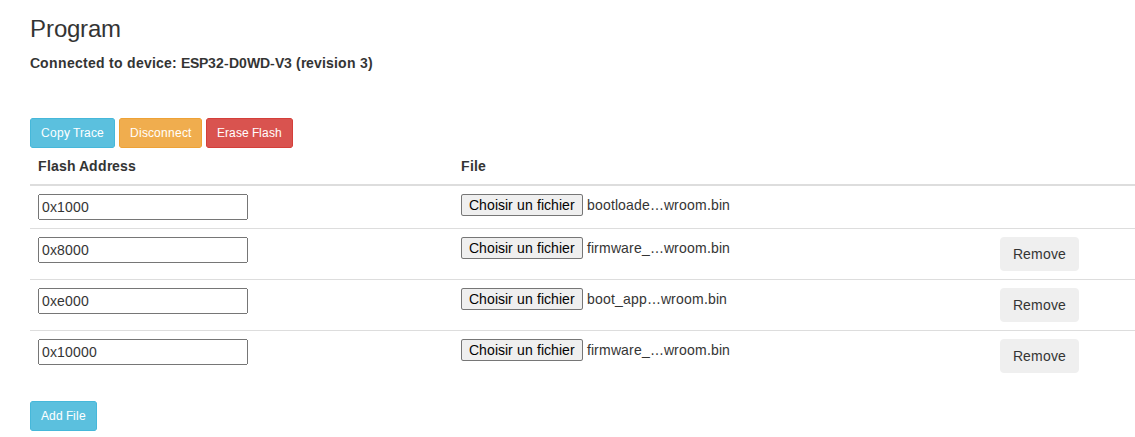
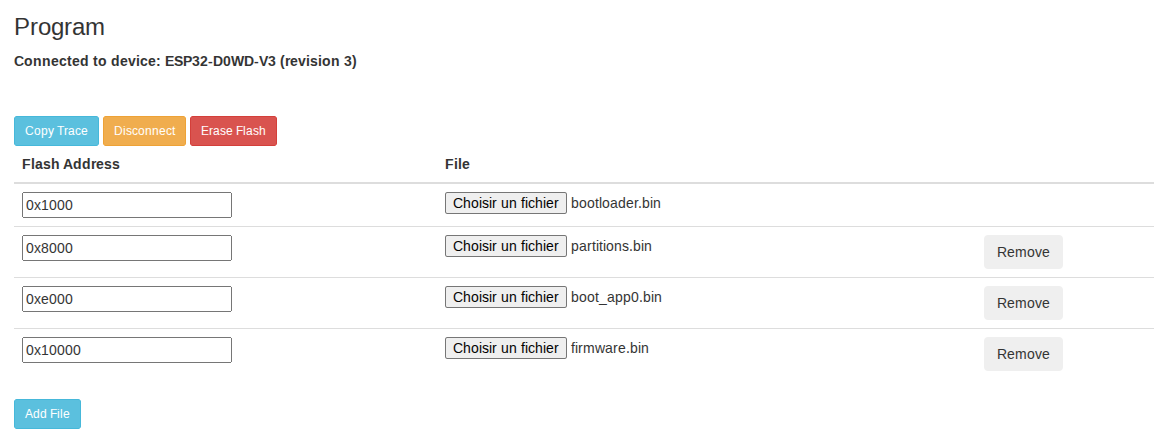
Restart esp32 after 3min if no wifi

diff --git a/src/main.cpp b/src/main.cpp
@@ -161,9 +161,10 @@ void setup() {
 
     // Wifi setup
     WiFiManager wm;
+    wm.setConfigPortalTimeout(180);
     bool res = wm.autoConnect();
     if (!res) {
-        Serial.println("Failed to connect");
+        Serial.println("Restarting...");
         delay(1000);
         ESP.restart();
     }

diff --git a/Readme.md b/Readme.md
@@ -30,6 +30,7 @@ Vous n'avez pas besoin d'installer d'environnement de développement pour utilis
     ![Champs esptool](doc/flash_esp32c3.png "")
         - **esp32-wroom**: 
     ![Champs esptool](doc/flash_esp32.png "")
+    - **Note :** Pour reprogrammer une puce qui a été déjà flashée, il peut être suffisant de ne charger que `firmware.bin`, à l'addresse `0x10000`.
     - Cliquez sur `Program`. La progression s'affiche en dessous.
     - Débranchez-rebranchez l'esp32 (ou appuyez sur le bouton `RST` de la carte).
     - En cas de problème essayez de recommencer, en cliquant sur `Erase Flash` avant `Program`.
@@ -139,3 +140,4 @@ Si vous souhaitez modifier le code source de l'ESP32 :
 ## Autres éléments utiles
 *   Assurez-vous que l'ESP32 est branché sur une prise secteur que vous souhaitez surveiller.
 *   En cas de coupure de courant, votre routeur Wifi s'éteindra probablement aussi, empêchant l'ESP32 d'envoyer un dernier message. C'est précisément l'**absence de ping** reçue par Google Sheets qui déclenchera l'alerte.
+*   Si l'ESP32 ne parvient pas à se connecter au réseau WiFi pour lequel il a été configuré, il ouvre le portail de configuration WiFi pendant 3 minutes, puis redémarre. 